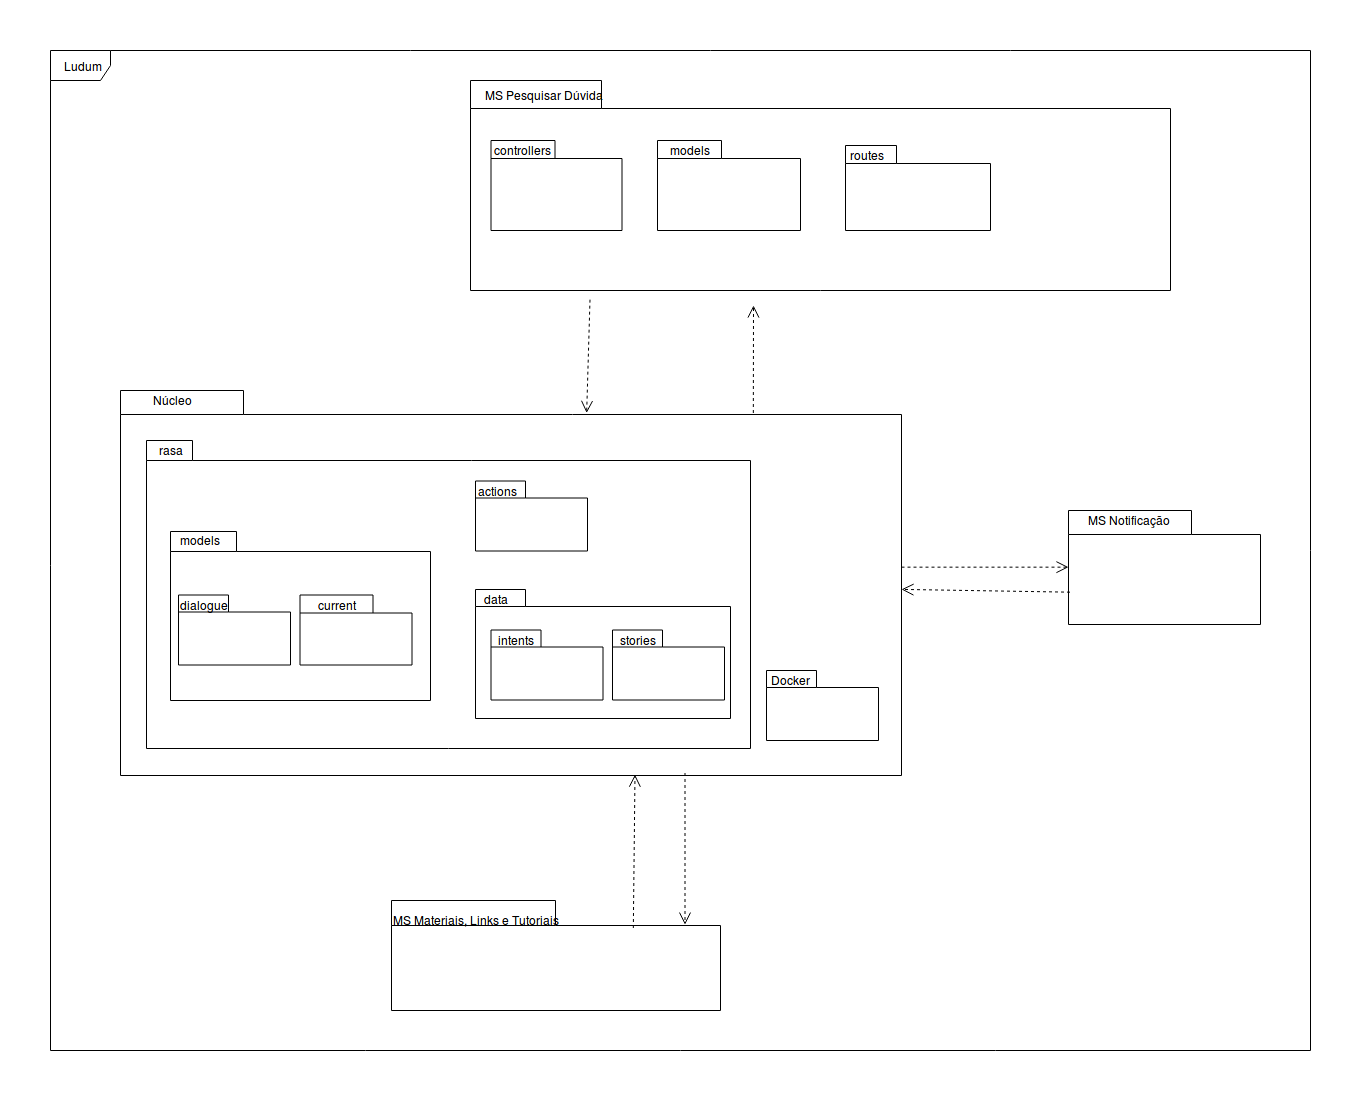
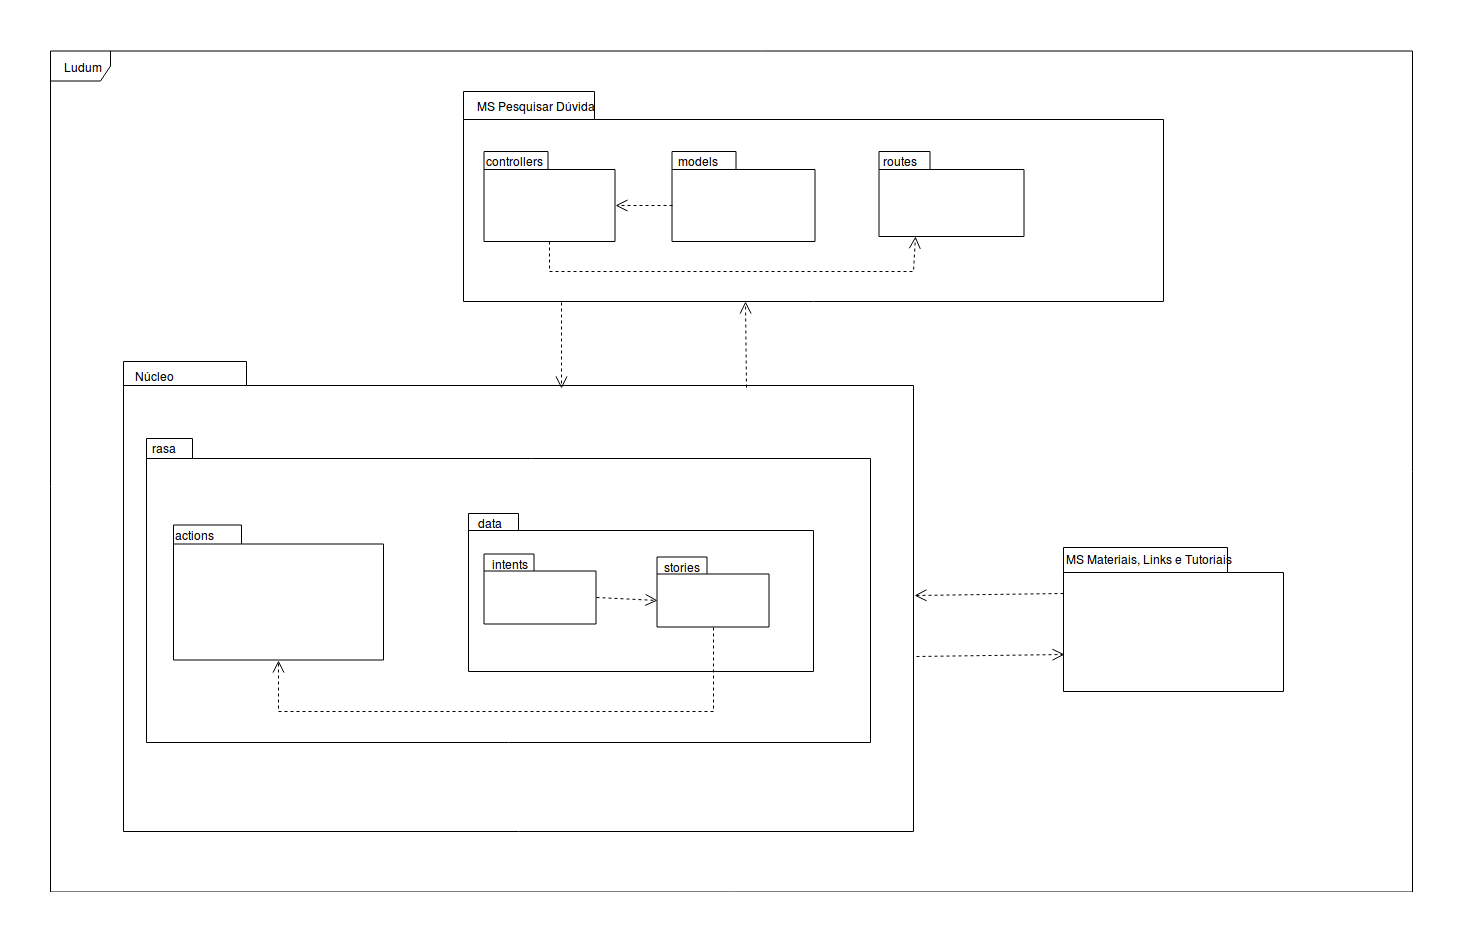
#73 - Refatorando diagramas.

diff --git a/docs/documento-de-arquitetura.md b/docs/documento-de-arquitetura.md
@@ -8,10 +8,11 @@
 | 07/04/2019 | 0.4   | Modificação da parte 2 do documento | João Pedro, Wictor Girardi, João de Assis e Lucas Ganda |
 | 11/04/2019 | 0.5   | Modificação sessão Introdução | Thallys |
 | 12/04/2019 | 0.6   | Correção de estrutura e escrita| Thallys |
-| 21/04/2019 | 0.7   | Adicionando diagrama de relações | Gabriela de Moraes, Guilherme Siqueira, Lucas Lermen, Lucas Penido |
-| 30/04/2019 | 0.8 | Refatorando seções 1 e 2 | Gabriela de Moraes, Lucas Lermen, Lucas Penido |
+| 21/04/2019 | 0.7   | Adicionando diagrama de relações | Gabriela de Moraes, Guilherme Siqueira, Lucas Lermen e Lucas Penido |
+| 30/04/2019 | 0.8 | Refatorando seções 1 e 2 | Gabriela de Moraes, Lucas Lermen e Lucas Penido |
 | 30/04/2019 | 0.9 | Adicionando Diagrama de funcionamento do Rasa | Thallys |
-| 31/04/2019 | 1.0 | Refatorando seções 3, 4, 6, 7, 8 | Gabriela de Moraes, Lucas Lermen |
+| 31/04/2019 | 1.0 | Refatorando seções 3, 4, 6, 7, 8 | Gabriela de Moraes e Lucas Lermen |
+| 31/04/2019 | 1.1 | Refatorando diagramas | Gabriela de Moraes, Lucas Lermen, Lucas Penido e Guilherme Siqueira |
 
 
 # 1. Introdução  
@@ -71,12 +72,14 @@ Estrutura do documento:
 > RODRIGUES, Pedro; BLANCO, Matheus; BRAGA, Gabriel; FILIPE, Gabriel; AUGUSTO, Guilherme; DE SOUZA, Letícia. <b>Lino:</b> Documento de Arquitetura. Disponível em:
 <https://github.com/fga-eps-mds/2018.2-Lino/blob/master/docs/documento-de-arquitetura.md>.
 
+>JUNIOR, Luiz Fernando Duarte. MongoDB para iniciantes em NoSQL. [S. l.], 28 set. 2017. Disponível em: https://imasters.com.br/banco-de-dados/mongodb-para-iniciantes-em-nosql. Acesso em: 30 abr. 2019.
+
 
 # 2. Representação da Arquitetura
 
 ## 2.1 Diagrama de Relações
 
-![diagrama de relacoes](./imagens/diagrama-de-relacoes.png)
+![diagrama de relacoes](./imagens/diagrama-relacoes.png)
 
 <p  align="justify">O Ludum utiliza como principal padrão arquitetural microsserviços que realizam conexões bidirecionais com o núcleo do chatbot. Cada um destes microsserviços funciona independente das demais partes do sistema.</p>
 
@@ -95,17 +98,16 @@ Estrutura do documento:
 
 <html>
 <ul>
+
 <li>  Disponibilizar materiais, links e tutoriais </li>
 <li>  Pesquisar Dúvidas </li>
-<li>  Notificações via email sobre novos materiais, links e tutoriais </li>
+
 </ul>
 </html>
 
-<p align="justify">O microsserviço de Disponibilização de Materiais, Links e Tutoriais, retorna os mesmos ao usuário quando solicitado por ele. Os materiais e links podem ser inseridos no banco de dados pelos desenvolvedores ou contribuições da comunidade através de um WebClient. Já os tutoriais são divididos em níveis de dificuldade (fácil, médio e difícil) ou em tutoriais da comunidade submetidos ao banco pelo mesmo WebClient.</p>
+<p align="justify">O microsserviço de Disponibilização de Materiais, Links e Tutoriais, retorna os mesmos ao usuário quando solicitado por ele. Os materiais e links podem ser inseridos no banco de dados pelos desenvolvedores ou contribuições da comunidade através de um WebClient. Já os tutoriais são divididos em níveis de dificuldade (fácil, médio e difícil) ou em tutoriais da comunidade submetidos ao banco pelo mesmo WebClient. Além disso, será enviada uma notificação via e-mail aos usuários que tiverem seu e-mail cadastrado no banco de dados do Núcleo da aplicação, cada vez que um material, link ou tutorial for cadastrado.</p>
 
 <p align="justify">O microsserviço de Pesquisar de Dúvidas funciona da seguinte maneira: Quando o usuário solicita este serviço lhe é apresentada uma série de perguntas e respostas, as quais foram cadastradas pelos desenvolvedores da aplicação. Caso a dúvida feita pelo usuário não for encontrada na lista de perguntas, o usuário tem a opção de digitá-la para que seja buscada no site do StackOverflow por meio da API do StackExchange. Após a pesquisa ser realizada, os cinco primeiros resultados serão apresentados para o usuário e salvos no banco de dados do microsserviço.</p>
-
-<p align="justify">Já o microsserviço de Notificações via email enviará uma notificação aos usuários que tiverem seu email cadastrado no banco de dados do Núcleo da aplicação, cada vez que um material, link ou tutorial for cadastrado.
 
 
 ## 2.2 Tecnologias
@@ -169,6 +171,8 @@ Estrutura do documento:
 
 # 5. Visão de Implantação
 
+![](./imagens/diagrama-implantacao.png)
+
 
 # 6. Visão de Implementação
 ## 6.1 Visão Geral
@@ -183,7 +187,7 @@ Estrutura do documento:
 # 7. Visão de Dados  
 
 ## 7.1 Visão geral
-<p align="justify"> Com exceção do microsserviço de notificações, todos os outros, incluindo o núcleo do Ludum, possuem bancos de dados para armazenar os dados necessários para o funcionamento do serviço em questão. Nós tópicos a seguir serão apresentados os modelos de dados de cada um desses serviços</p>
+<p align="justify"> Os microsserviçoes e o núcleo do Ludum possuem bancos de dados para armazenar os dados necessários para o funcionamento do serviço em questão. Nós tópicos a seguir serão apresentados os modelos de dados de cada um desses serviços</p>
 
 ## 7.2 BD do microsserviço Perguntas
 ![modelagem banco](./imagens/ModelagemBancoMicrosservicoDuvidas.png)
@@ -192,7 +196,3 @@ Estrutura do documento:
 
 <p align="justify"> Haja visto que o Ludum é um ChatBot para o telegram, seu tamanho tende a seguir um padrão para esses tipos de aplicação. Não obstante, o mesmo se utiliza de microsserviços que acarretam em um aumento significativo de sua robustez.</p>
 <p align="justify"> No tocante ao desempenho, a arquitetura de microsserviços, por sua grande autonomia das partes, previne que o desempenho do sistema como um todo fique comprometido no caso de falha em um de seus serviços. Porém, o desempenho do Ludum, também é condicionado por questões que envolvem os serviços externos, como por exemplo falhas nas APIs do Gmail e do StackOverFlow, bem como problemas relacionados ao próprio Telegram.</p>
-
-# 9. Referências
-
->JUNIOR, Luiz Fernando Duarte. MongoDB para iniciantes em NoSQL. [S. l.], 28 set. 2017. Disponível em: https://imasters.com.br/banco-de-dados/mongodb-para-iniciantes-em-nosql. Acesso em: 30 abr. 2019.

diff --git a/docs/sprint5-resultado.md b/docs/sprint5-resultado.md
@@ -57,7 +57,7 @@
 
 <p align = "justify">As reuniões diárias da equipe constataram esse fato, já que a equipe pode relatar que estava sempre realizando as tarefas do projeto. O <i>Burndown</i> É uma evidência disso também, já que a equipe conseguiu entregas contínuas durante a <i>sprint</i>.
 
-<p align = "justify">Porém, ocorreram definições importantes acerca da arquitetura, o que impossibilitou a sua conclusão, deixando assim uma dívida técnica da <i>sprint<i>.
+<p align = "justify">Porém, ocorreram definições importantes acerca da arquitetura, o que impossibilitou a sua conclusão, deixando assim uma dívida técnica da <i>sprint</i>.
 
 <p align = "justify"> Foi uma <i>sprint</i> produtiva, a qual deixa o caminho bem direcionado para a primeira Release.
 

diff --git a/docs/sprints.md b/docs/sprints.md
@@ -29,3 +29,8 @@
 
 - [Planejamento](/sprint5-planejamento.md)
 - [Resultado](/sprint5-resultado.md) 
+
+## <i>Sprint</i> 6
+
+- [Planejamento](/sprint6-planejamento.md)
+- [Resultado](/sprint6-resultado.md) 
